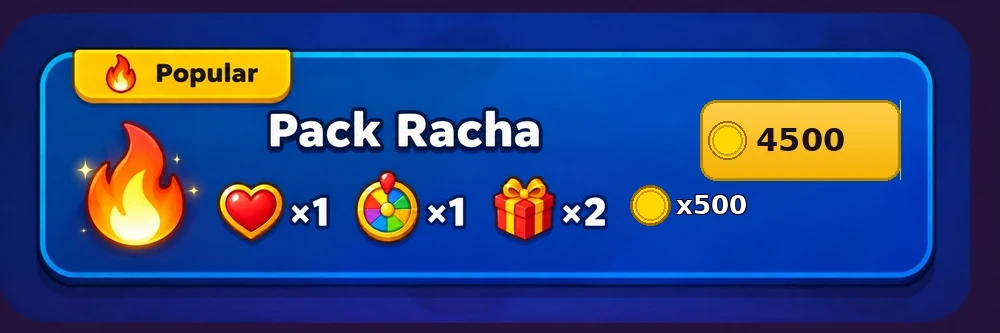
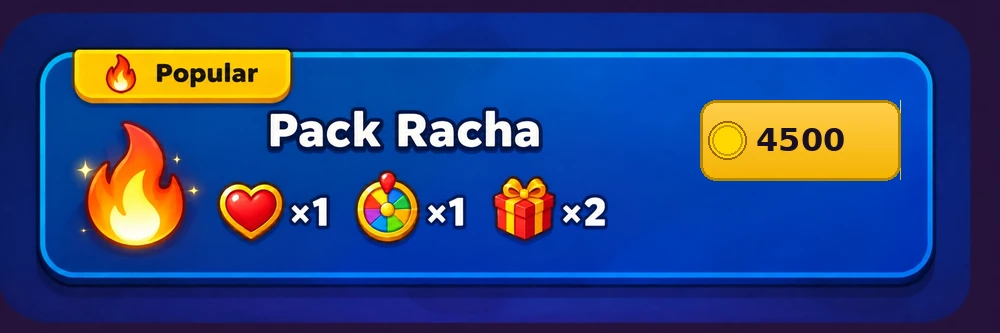
Revertir las monedas fijas del Pack Racha (#473)
* Agrandar y destacar Pack Explorador y Pack Racha en la tienda

Se veían chicos comparados con el resto: se les sube la altura del
banner y se les agrega un borde/resplandor dorado para que llamen
más la atención.

Claude-Session: https://claude.ai/code/session_016Hpyg3vebFKwHSnTQ2rALx

* Agregar 8 tableros nuevos de temática candy

Solo visibles al tocar el título "Tableros" (catálogo completo),
igual que las tandas anteriores.

Claude-Session: https://claude.ai/code/session_016Hpyg3vebFKwHSnTQ2rALx

* Revertir tamaño de Pack Explorador y Pack Racha

El agrandado con borde dorado no gustó, vuelve al diseño original.

Claude-Session: https://claude.ai/code/session_016Hpyg3vebFKwHSnTQ2rALx

* Arreglar fondo blanco de Candy Pop en Marcos de tablero

La imagen original tenía las esquinas blancas en vez de oscuras como
el resto de los diseños, lo que la hacía resaltar de más y parecer
más grande. Se reemplaza por el mismo tono oscuro de fondo.

Claude-Session: https://claude.ai/code/session_016Hpyg3vebFKwHSnTQ2rALx

* Volver a poner precio a Contención Tóxica

Ya cumplió su función de prueba gratis, vuelve a costar monedas como
el resto (600, igual que Núcleo Mutante).

Claude-Session: https://claude.ai/code/session_016Hpyg3vebFKwHSnTQ2rALx

* Forzar refresco de caché: Candy Pop seguía viéndose con el blanco viejo

Al ser assets/ caché-primero, corregir el archivo no alcanzaba: los
celulares que ya lo habían visto se quedaban con la versión vieja.
[…]

Changed region(s): [[0.62, 0.5405, 0.775, 0.6907]]

diff --git a/index.html b/index.html
@@ -2629,10 +2629,14 @@ function tnEjecutarCompra(tipo,precio){
       {icono:"❤",texto:"+1 vida"},{icono:"🪙",texto:"+300"},{icono:"🎁",texto:"+1 sobre"}
     ],()=>colMostrarSobreConseguido(cual,true));
   }else if(tipo==="pack_racha"){
-    meta.vidas=VIDAS_MAX;meta.proxima=0;meta.ultimaRuleta=0;sumarMonedas(500);
-    const cual1=otorgarSobreSorpresa(true);otorgarSobreSorpresa(true);
+    meta.vidas=VIDAS_MAX;meta.proxima=0;meta.ultimaRuleta=0;
+    /* Acá "coleccionables y monedas" lo dan los propios 2 sobres del pack
+       (no garantizados): cada uno puede tocar coleccionable o la sorpresa
+       de monedas/vida, como cualquier sobre normal — no hace falta un
+       +monedas aparte pegado al pack. */
+    const cual1=otorgarSobreSorpresa();otorgarSobreSorpresa();
     mostrarPackItems([
-      {icono:"❤",texto:"Vidas llenas"},{icono:"🪙",texto:"+500"},{icono:"🎁",texto:"+2 sobres"}
+      {icono:"❤",texto:"Vidas llenas"},{icono:"🎁",texto:"+2 sobres"}
     ],()=>colMostrarSobreConseguido(cual1,true));
   }else if(tipo==="pack_mutante"){
     avataresComprados.add("avatar-27");guardarAvataresComprados();equiparAvatarPremium("avatar-27");

diff --git a/sw.js b/sw.js
@@ -1,4 +1,4 @@
-const CACHE_NAME = "gya-cache-v15";
+const CACHE_NAME = "gya-cache-v16";
 const APP_SHELL = ["./", "./index.html", "./manifest.json", "./icono-192.png", "./icono-512.png", "./assets/logo.webp"];
 
 self.addEventListener("install", (e) => {
